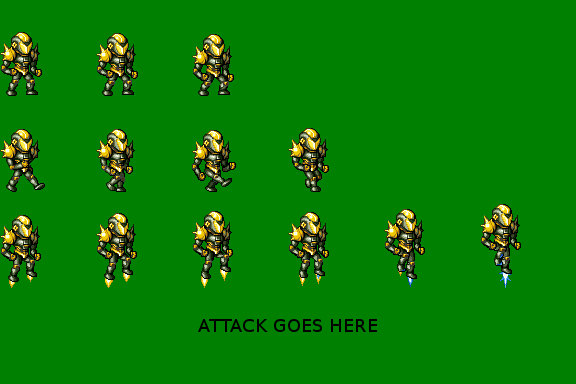
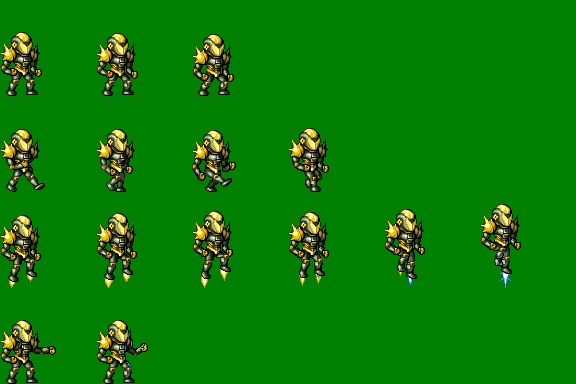
Bullets

Changed region(s): [[0.3438, 0.8125, 0.6562, 0.875], [0.1562, 0.8125, 0.25, 1.0], [0.0, 0.8125, 0.0938, 1.0]]

diff --git a/src/character.cpp b/src/character.cpp
@@ -14,12 +14,15 @@ Character::Character(string n, int x_, int y_) {
   jumping = false;
   image = NULL;
 
+  bulletImage = RemoveBackground(LoadImage("data/bullet.png"));
+
   load();
   
 }
 
 Character::~Character() {
   SDL_FreeSurface(image);
+  SDL_FreeSurface(bulletImage);
 }
 
 bool Character::load() {
@@ -46,17 +49,16 @@ bool Character::load() {
   }
 
   /* remove background */
-  Uint32 colorkey = SDL_MapRGB(im->format, CHARACTER_BACK);
-  SDL_SetColorKey(im, SDL_SRCCOLORKEY, colorkey);
-  image = im;
+  image = RemoveBackground(im);
 
-  int r, w, j;  
-  infoFile >> r >> w >> j;
+  int r, w, j, a;  
+  infoFile >> r >> w >> j >> a;
   numframes[REST_INDEX] = r;
   numframes[WALK_INDEX] = w;
   numframes[JUMP_INDEX] = j;
+  numframes[ATTACK_INDEX] = a;
 
-  for(int x = 0; x < 3; x++) {
+  for(int x = 0; x < NUMSTATES; x++) {
     int ctr = -1;
     switch(x) {
       case REST_INDEX:
@@ -67,6 +69,9 @@ bool Character::load() {
 	break;
       case JUMP_INDEX:
 	ctr = j;
+	break;
+      case ATTACK_INDEX:
+	ctr = a;
 	break;
     }
     SDL_Rect* tempptr = new SDL_Rect[ctr];
@@ -89,6 +94,11 @@ void Character::draw(SDL_Surface* screen) {
   int frame = static_cast<int>(this->frame);
   clip = clips[state][frame];
   ApplySurface(x, y, image, screen, &clip);
+  
+  for(uint i = 0; i < bullets.size(); ++i) {
+    bullets[i].move();
+    bullets[i].draw(screen);
+  }
 }
 
 int Character::nextFrame() {
@@ -102,7 +112,8 @@ int Character::nextFrame() {
 
 void Character::handleKeys(const bool keys[]) {
   bool moved = false;
-  
+  bool atk = false;
+
   if(keys[SDLK_UP] && !jumping) {
     state = jump;
     frame = 0;
@@ -132,11 +143,25 @@ void Character::handleKeys(const bool keys[]) {
     moved = true;
   }
   
-  if(moved && !jumping) {
+  if(keys[SDLK_SPACE]) {
+    state = attack;
+    atk = true;
+    if(SDL_GetTicks() - lastShot > BULLET_DELAY) {
+      this->fire();
+    }
+  }
+
+  if(moved && !jumping && !atk) {
     state = walk;
   }
   
-  if(!moved) {
+  if(!moved && !atk) {
     state = rest;
   }
+}
+
+void Character::fire() {
+  lastShot = SDL_GetTicks();
+  bullets.push_back(Bullet(bulletImage, x + CHARACTER_WIDTH / 2,
+			   y + CHARACTER_HEIGHT / 1.7, BULLET_SPEED, 0));
 }

diff --git a/src/main.cpp b/src/main.cpp
@@ -2,10 +2,11 @@
 #include "character.h"
 #include "music.h"
 #include "fog.h"
+#include "background.h"
 
 int main(int argc, char** argv) {
   SDL_Surface *screen = InitSDL();
-  SDL_Surface *background = LoadImage("data/back.png", true);
+  Background background(LoadImage("data/back.png", true));
   Fog fog(LoadImage("data/fog.png", true));
   fog.setXY(0, 300);
 
@@ -23,7 +24,7 @@ int main(int argc, char** argv) {
     keys[i] = false;
   }
 
-  ApplySurface(0, 0, background, screen);
+  background.draw(screen);
   player.draw(screen);
   fog.draw(screen);
 
@@ -52,11 +53,18 @@ int main(int argc, char** argv) {
     } else if(player.getX() > WIDTH - CHARACTER_WIDTH) {
       player.setX(WIDTH - CHARACTER_WIDTH);
     }
+
+    /*if(keys[SDLK_LEFT]) {
+      background.unscroll();
+    }
+    if(keys[SDLK_RIGHT]) {
+      background.scroll();
+    }*/
     
     player.nextFrame();
     fog.scroll();
 
-    ApplySurface(0, 0, background, screen);
+    background.draw(screen);
     player.draw(screen);
     fog.draw(screen);
 

diff --git a/src/character.h b/src/character.h
@@ -1,6 +1,10 @@
 #ifndef _CHARACTER_H_
 #define _CHARACTER_H_
 
+#include "bullet.h"
+
+#include <vector>
+
 #include "SDL/SDL.h"
 #include "SDL/SDL_image.h"
 
@@ -11,14 +15,18 @@ class Character {
   double velocity_x, velocity_y;
   
   double frame;
-  int numframes[3]; // rest, walk, jump
+  int numframes[NUMSTATES]; // rest, walk, jump, attack
   
   MoveState state;
   
   bool jumping;
 
-  SDL_Rect *clips[3]; // rest, walk, jump
+  SDL_Rect *clips[NUMSTATES]; // rest, walk, jump, attack
   SDL_Surface *image;
+
+  SDL_Surface *bulletImage;
+  std::vector<Bullet> bullets;
+  Uint32 lastShot;
  public:
   Character(std::string, int, int);
   Character() { };
@@ -31,6 +39,7 @@ class Character {
   int getY() { return y; }
   void setX(int v) { x = v; }
   void setY(int v) { y = v; }
+  void fire();
 };
 
 #endif /*_CHARACTER_H_*/

diff --git a/src/bullet.h b/src/bullet.h
@@ -1,0 +1,31 @@
+#ifndef _BULLET_H_
+#define _BULLET_H_
+
+#include "game.h"
+
+class Bullet {
+private:
+  int x, y;
+  int xmove, ymove;
+  SDL_Surface* image;
+public:
+  Bullet(SDL_Surface *); 
+  Bullet(SDL_Surface*, int, int);
+  Bullet(SDL_Surface*, int, int, int, int);
+  
+  void setXMove(int v) { xmove = v; }
+  void setYMove(int v) { ymove = v; }
+
+  int getX() { return x; }
+  int getY() { return y; }
+
+  void setX(int v) { x = v; }
+  void setY(int v) {y = v; }
+  void setXY(int a, int b) { x = a; y = b; }
+
+  void move();
+  void draw(SDL_Surface*);
+};
+
+
+#endif /* _BULLET_H_ */

diff --git a/src/background.cpp b/src/background.cpp
@@ -1,0 +1,34 @@
+#include "background.h"
+
+Background::Background(SDL_Surface* s) {
+  image = s;
+  x = y= x_ = y_ = 0;
+  w = s->w;
+  h = s->h;
+}
+
+void Background::scroll() {
+  x -= Background::step;
+  if(x <= -w) {
+    this->reset();
+  }
+}
+
+void Background::unscroll() {
+  x += Background::step;
+  if(x <= -w) {
+    this->reset();
+  }
+}
+
+void Background::reset() {
+  x = x_;
+  y = y_;
+}
+
+void Background::draw(SDL_Surface* screen) {
+  ApplySurface(x, y, image, screen);
+  if(x <= -w + WIDTH) {
+    ApplySurface(x + w, y, image, screen);
+  }
+}

diff --git a/src/bullet.cpp b/src/bullet.cpp
@@ -1,0 +1,30 @@
+#include "bullet.h"
+
+Bullet::Bullet(SDL_Surface* i) {
+  image = i;
+  x = y= xmove = ymove = 0;
+}
+
+Bullet::Bullet(SDL_Surface* i, int x_, int y_) {
+  image = i;
+  x = x_;
+  y = y_;
+  xmove = ymove = 0;
+}
+
+Bullet::Bullet(SDL_Surface* i, int x_, int y_, int dx, int dy) {
+  image = i;
+  x = x_;
+  y = y_;
+  xmove = dx;
+  ymove = dy;
+}
+
+void Bullet::move() {
+  x += xmove;
+  y += ymove;
+}
+
+void Bullet::draw(SDL_Surface* s) {
+  ApplySurface(x, y, image, s);
+}

diff --git a/src/game.h b/src/game.h
@@ -23,12 +23,14 @@ using std::endl;
 typedef enum {
      rest,
      walk,
-     jump
+     jump,
+     attack
 } MoveState;
 
 /* util functions */
 SDL_Surface *InitSDL(void);
 SDL_Surface *LoadImage(std::string, bool transparent = false);
+SDL_Surface *RemoveBackground(SDL_Surface*);
 int CleanUp();
 void ApplySurface(int, int, SDL_Surface*, SDL_Surface*, SDL_Rect* clip=NULL); 
 #endif /* _GAME_H_ */

diff --git a/src/util.cpp b/src/util.cpp
@@ -30,6 +30,12 @@ SDL_Surface *LoadImage(std::string filename, bool transparent) {
   return optimized;
 }
 
+SDL_Surface *RemoveBackground(SDL_Surface *im) {
+  Uint32 colorkey = SDL_MapRGB(im->format, CHARACTER_BACK);
+  SDL_SetColorKey(im, SDL_SRCCOLORKEY, colorkey);
+  return im;
+}
+
 SDL_Surface *InitSDL() {
   if(SDL_Init(SDL_INIT_VIDEO | SDL_INIT_AUDIO) == -1) {
     FATAL("SDL init failed");

diff --git a/src/background.h b/src/background.h
@@ -1,0 +1,21 @@
+#ifndef _BACKGROUND_H_
+#define _BACKGROUND_H_
+
+#include "game.h"
+
+class Background {
+  const static int step = 1;
+private:
+  SDL_Surface* image;
+  int x, y, x_, y_;
+  int w, h;
+public:
+  Background(SDL_Surface*);
+  
+  void scroll();
+  void unscroll();
+  void reset();
+  void draw(SDL_Surface*);
+};
+
+#endif /* BACKGROUND_H_ */

diff --git a/src/config.h b/src/config.h
@@ -9,6 +9,9 @@
 #define REST_INDEX 0
 #define WALK_INDEX 1
 #define JUMP_INDEX 2
+#define ATTACK_INDEX 3
+
+#define NUMSTATES 4
 
 #define CHARACTER_WIDTH 96
 #define CHARACTER_HEIGHT 96
@@ -23,5 +26,8 @@
 
 #define GRAVITY 2
 #define Y_VELOCITY_STEP -20
+
+#define BULLET_SPEED 15
+#define BULLET_DELAY 200
 
 #endif /* _CONFIG_H_ */
